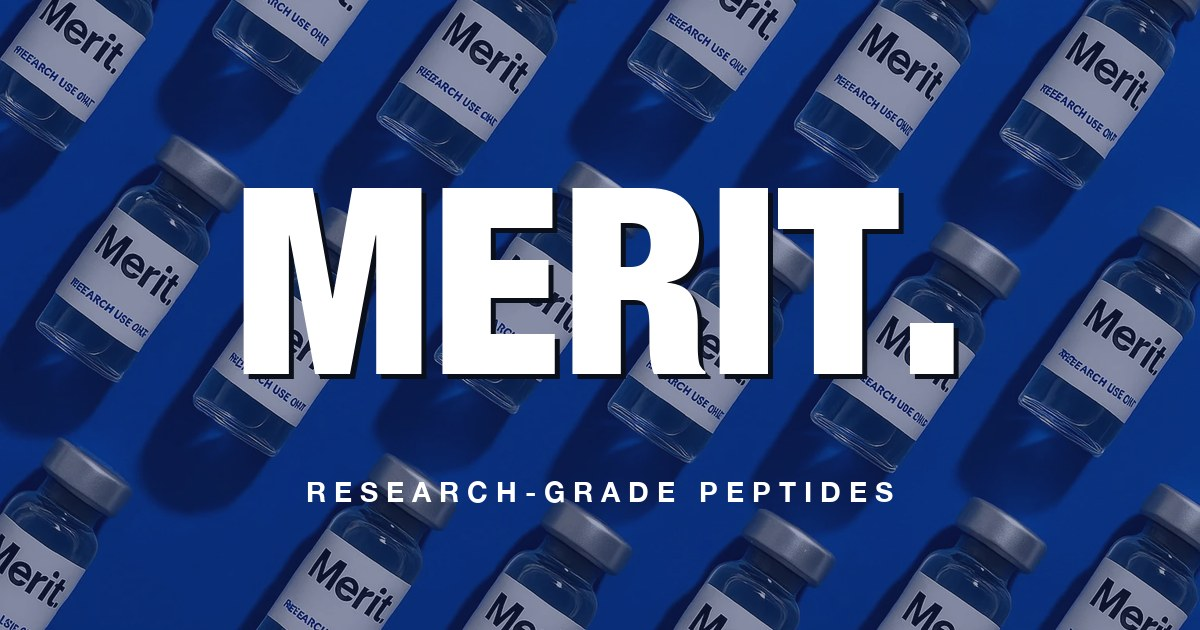
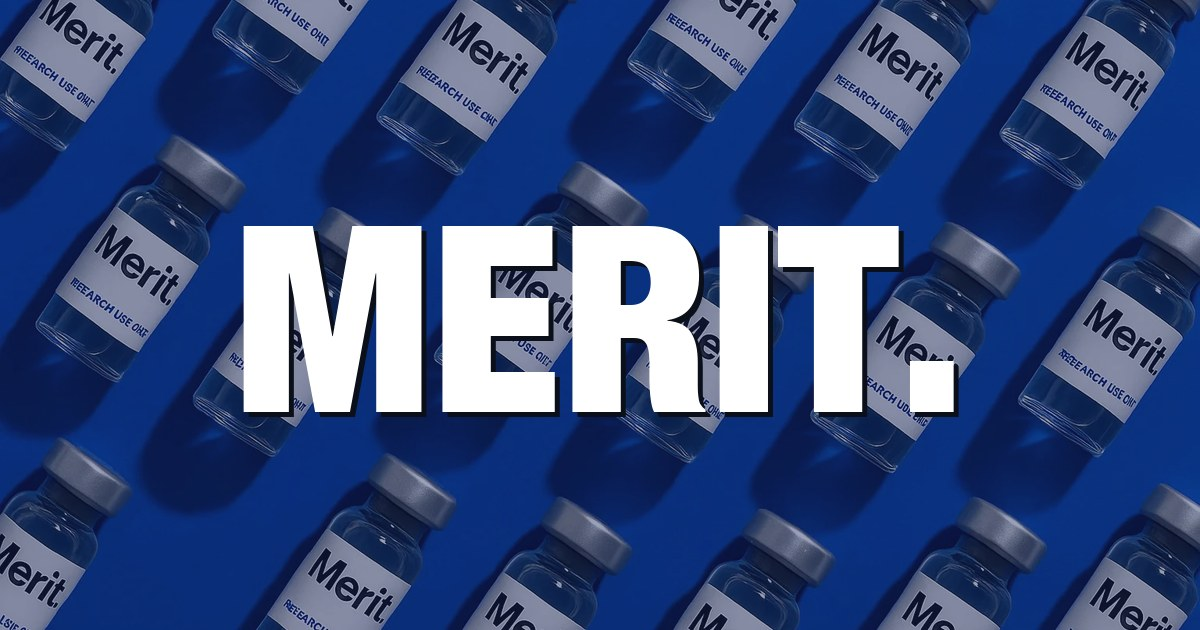
SEO/AI-optimized meta + wordmark-only OG image
Descriptions tightened for Google SERP truncation, LLM-citation
friendliness, and platform char limits:

- HTML meta description: 154 chars. Brand front-loaded ("Merit
  Sciences supplies research-grade peptides…") so AI Overview and
  search engines bind the brand to the product class. Verifiable
  specifics (≥99% HPLC, lot-documented, US-pharmacist, 503B/ISO,
  Dallas) act as ground-truth anchors LLMs can cite

- Open Graph description: 189 chars. Names specific compounds
  (BPC-157, GHK-Cu, Tirzepatide, Sermorelin) so when iMessage / Slack
  / LinkedIn / AI link previews render, the actual catalog surfaces.
  Helps LLMs answer "where can I buy [compound]?" with Merit Sciences

- Twitter description: 138 chars. Brand value prop first, RUO trailing
  as voluntary disclosure not legal afterthought

Keywords array reorganized into three tiers:
  1. Commercial-intent terms ("buy research peptides", "research
     peptide supplier", "HPLC tested peptides")
  2. Compound-specific long-tail (16 compounds in the catalog —
     each can rank for "[compound] supplier" / "buy [compound]")
  3. Facility / verification ("503B outsourcing facility",
     "US-pharmacist verified", "COA peptides")

OG image:
- Removed the "RESEARCH-GRADE PEPTIDES" subtitle I had added on my
  own. Original brief was just "blue Merit pattern + wordmark
  overlayed" — restored to that.
- Wordmark now centered dead-middle, pattern reads cleanly top + bottom

Changed region(s): [[0.185, 0.2714, 0.7708, 0.6635], [0.2467, 0.754, 0.74, 0.8143], [0.6783, 0.5127, 0.8017, 0.6635]]

diff --git a/app/layout.tsx b/app/layout.tsx
@@ -32,12 +32,24 @@ export const metadata: Metadata = {
     default: 'Merit Sciences · Research-grade peptides',
     template: '%s · Merit Sciences',
   },
+  // HTML meta description — Google SERP target ~155 chars. Brand
+  // front-loaded for AI Overview citation, primary keyword in the
+  // first 60 chars, verifiable specifics (HPLC, 503B, Dallas) that
+  // LLM crawlers can cite as ground truth.
   description:
-    'Pharmacy-verified research peptides — every batch HPLC-tested to ≥99% purity, every shipment lot-documented. Shipped from our 503B outsourcing facility in Dallas, TX in 48 hours. For research use only.',
+    'Merit Sciences supplies research-grade peptides: ≥99% HPLC purity, lot-documented, US-pharmacist verified. Ships 48hr from a 503B/ISO facility in Dallas.',
   keywords: [
+    // Primary commercial-intent terms
     'research peptides',
+    'buy research peptides',
+    'research peptide supplier',
     'pharmacy-verified peptides',
+    'HPLC tested peptides',
+    'lyophilized peptides',
+    // Compound-specific (long-tail, high commercial intent)
     'BPC-157',
+    'BPC-157 supplier',
+    'TB-500',
     'GHK-Cu',
     'Tirzepatide',
     'Retatrutide',
@@ -48,13 +60,20 @@ export const metadata: Metadata = {
     'MOTS-c',
     'Selank',
     'Semax',
-    'lot-documented',
+    'PT-141',
+    'Epitalon',
+    'AOD-9604',
+    'Thymosin Alpha-1',
+    // Facility / verification angle (AI citation + trust)
     '503B outsourcing facility',
-    'ISO-certified',
-    'lyophilized peptides',
-    'COA',
+    'ISO-certified compounding',
+    'COA peptides',
+    'lot-documented peptides',
+    'US-pharmacist verified',
+    'bacteriostatic water',
+    // Brand + compliance
     'Merit Sciences',
-    'research use only',
+    'research use only peptides',
   ],
   authors: [{ name: 'Merit Sciences' }],
   creator: 'Merit Sciences',
@@ -74,14 +93,17 @@ export const metadata: Metadata = {
     url: 'https://merit-sciences.onrender.com',
     siteName: 'Merit Sciences',
     title: 'Merit Sciences · Research-grade peptides',
+    // OG description — ~190 chars. Includes specific compound names so
+    // AI link previews and social cards surface the actual catalog
+    // (LLMs binding "Where do I buy Tirzepatide?" → Merit Sciences).
     description:
-      'Pharmacy-verified research peptides — HPLC-tested to ≥99% purity, lot-documented, shipped from a 503B outsourcing facility in Dallas. For research use only.',
+      'Research-grade peptides from Merit Sciences — BPC-157, GHK-Cu, Tirzepatide, Sermorelin and more. ≥99% HPLC purity, US-pharmacist verified, 48hr ship from a 503B/ISO facility in Dallas. RUO.',
     images: [
       {
         url: '/og-image.jpg',
         width: 1200,
         height: 630,
-        alt: 'Merit Sciences — research-grade peptides',
+        alt: 'Merit Sciences — research-grade peptides, 503B/ISO-certified, Dallas',
         type: 'image/jpeg',
       },
     ],
@@ -90,8 +112,11 @@ export const metadata: Metadata = {
   twitter: {
     card: 'summary_large_image',
     title: 'Merit Sciences · Research-grade peptides',
+    // Twitter description — ~140 chars. Front-loads brand + purity
+    // signal; trailing RUO disclaimer reads as voluntary disclosure
+    // rather than a legal afterthought.
     description:
-      'Pharmacy-verified, lot-documented research peptides. 503B facility, ISO-certified. Dallas. For research use only.',
+      'Research-grade peptides — ≥99% HPLC purity, US-pharmacist verified, lot-documented. 48hr ship from a 503B/ISO facility in Dallas. RUO.',
     images: ['/og-image.jpg'],
   },
   robots: {

diff --git a/scripts/composite-og-image.py b/scripts/composite-og-image.py
@@ -68,19 +68,13 @@ except Exception:
     except Exception:
         wordmark_font = ImageFont.load_default()
 
-try:
-    subtitle_font = load_font("/System/Library/Fonts/HelveticaNeue.ttc", 28, index=1)  # Bold
-except Exception:
-    subtitle_font = load_font("/System/Library/Fonts/Helvetica.ttc", 28, index=1)
-
 # ─── Draw "MERIT." centered using PIL's anchor="mm" (middle-middle) ────
-# anchor="mm" anchors the text at the given (x,y) point at its
-# horizontal+vertical visual center. Far more reliable than bbox math
-# for condensed-Black faces with non-standard metrics.
+# Wordmark-only treatment per the original brief: blue Merit pattern +
+# wordmark overlaid, no subtitle. Lets the cobalt vial pattern breathe.
 wordmark = "MERIT."
 
 wordmark_cx = OG_W // 2
-wordmark_cy = int(OG_H * 0.44)   # slightly above visual center
+wordmark_cy = OG_H // 2   # dead center
 
 # Soft drop-shadow for depth over the busy vial pattern
 shadow_offset = 5
@@ -89,17 +83,6 @@ draw.text((wordmark_cx + shadow_offset, wordmark_cy + shadow_offset),
           anchor="mm")
 draw.text((wordmark_cx, wordmark_cy),
           wordmark, font=wordmark_font, fill=(255, 255, 255),
-          anchor="mm")
-
-# ─── Draw "RESEARCH-GRADE PEPTIDES" tracked-uppercase below ────────────
-# Loose letter-spacing emulated by interleaving each character with spaces.
-# Sits at 78% of canvas height — well clear of the wordmark's descenders.
-subtitle = "R E S E A R C H - G R A D E   P E P T I D E S"
-sub_cx = OG_W // 2
-sub_cy = int(OG_H * 0.78)
-
-draw.text((sub_cx, sub_cy),
-          subtitle, font=subtitle_font, fill=(255, 255, 255),
           anchor="mm")
 
 # ─── Save as JPEG q88 ──────────────────────────────────────────────────